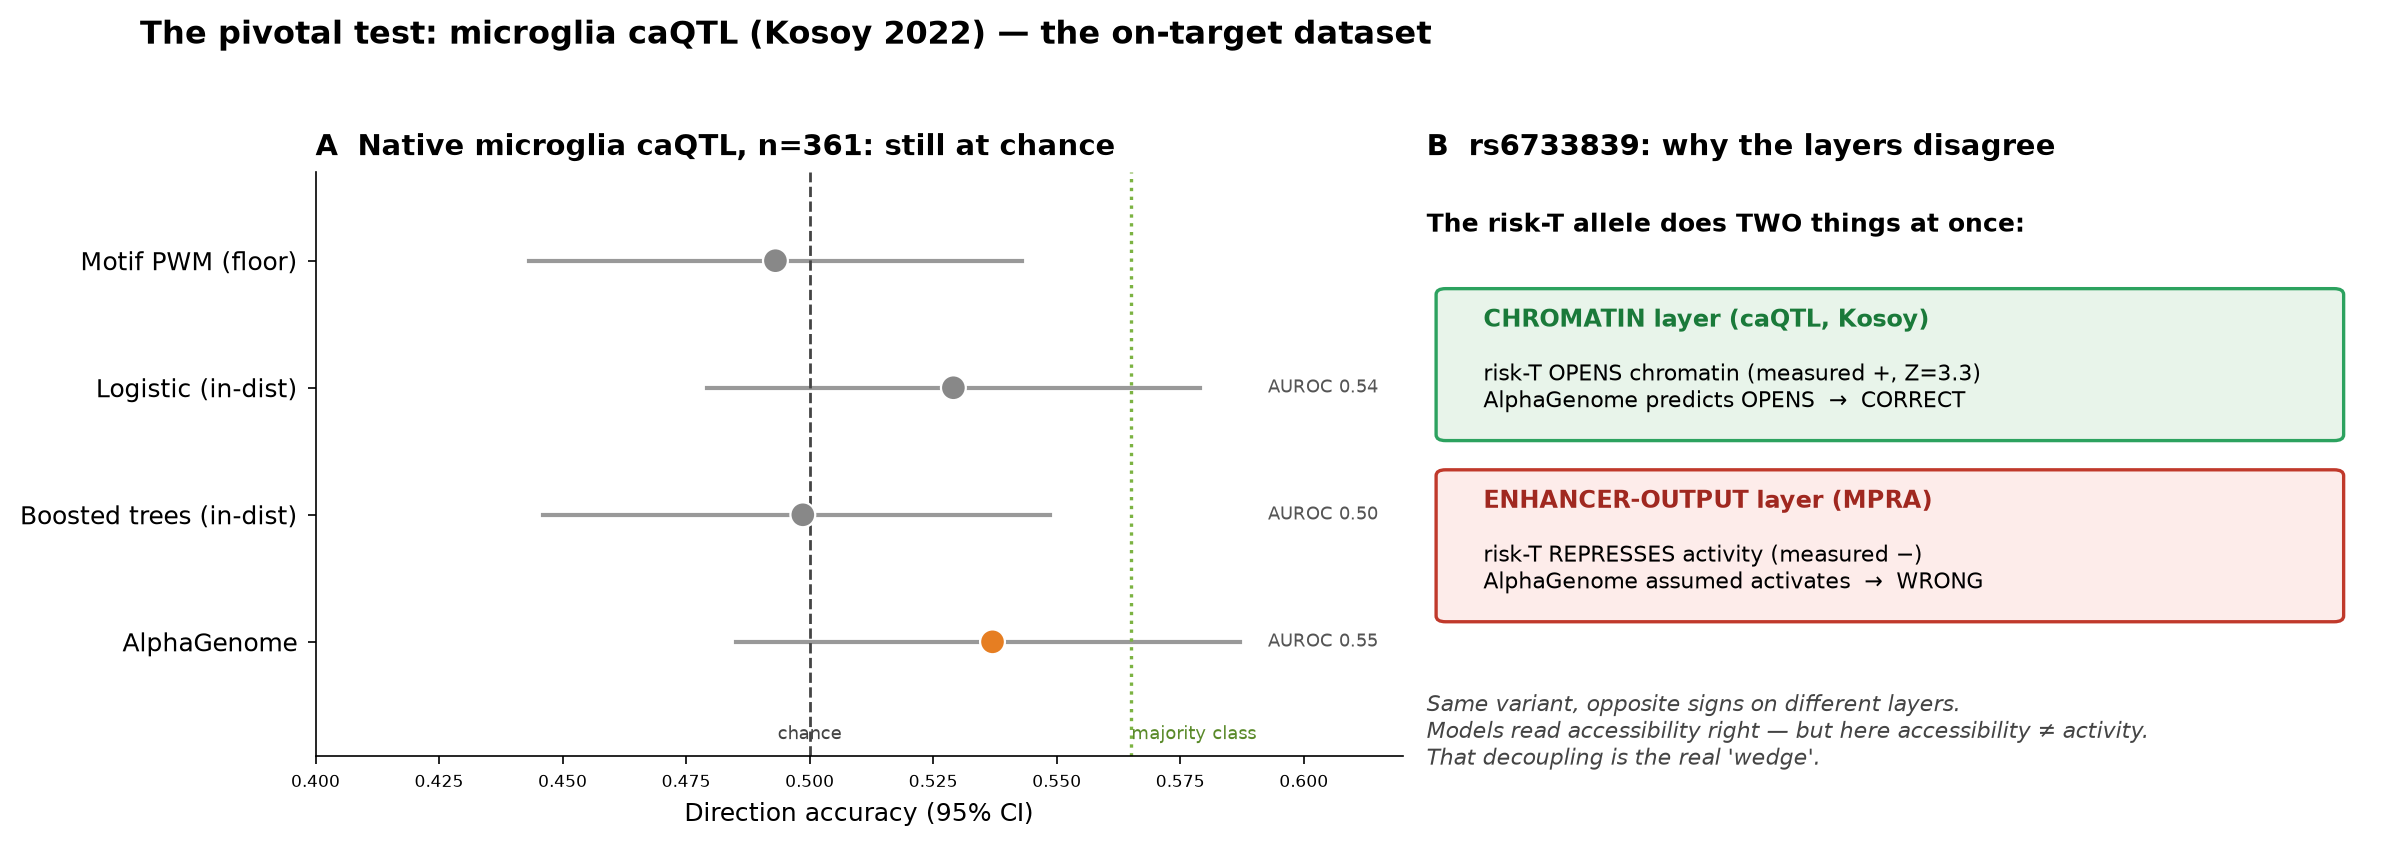
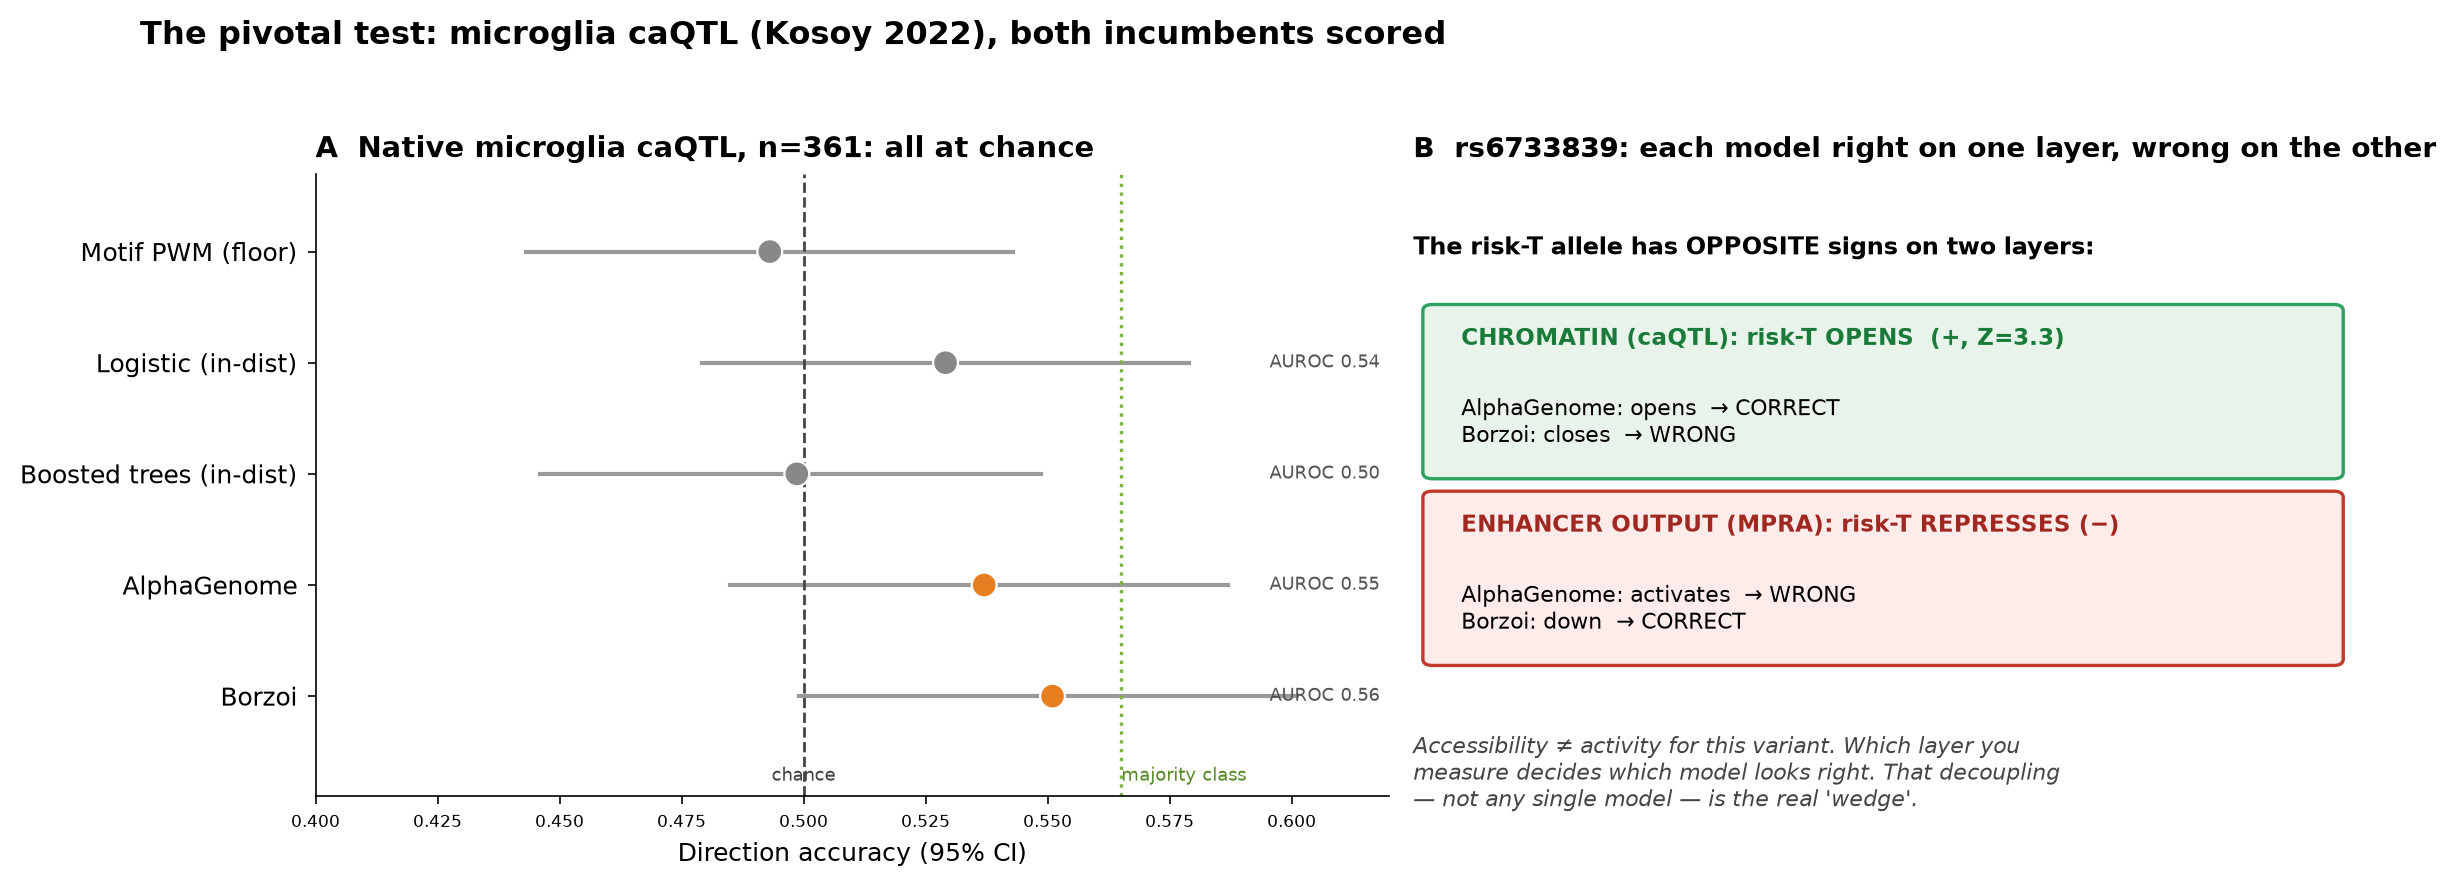
Add Borzoi caQTL row (0.551 [.499,.601], at chance, 0 zero-inflation): both incumbents at chance on native microglia task; rs6733839 mirror-image cross-layer (Borzoi right on MPRA/wrong on caQTL, AlphaGenome opposite)

diff --git a/bench/borzoi_caqtl_score.py b/bench/borzoi_caqtl_score.py
@@ -1,0 +1,63 @@
+#!/usr/bin/env python3
+"""Borzoi directional scoring on Kosoy microglia caQTL test variants.
+Direction = sign(alt - ref) over central bins, microglia/macrophage ATAC+DNase tracks.
+"""
+import json, numpy as np, pandas as pd, torch
+from borzoi_pytorch import Borzoi
+from borzoi_pytorch.pytorch_borzoi_model import TRACKS_DF
+import pysam
+
+DEV = "cuda" if torch.cuda.is_available() else "cpu"
+SEQLEN = 524288
+CENTER_BINS = 5
+MG_RX = r"microglia|macrophage|monocyte|myeloid|CD14|dendritic"
+
+model = Borzoi.from_pretrained("johahi/borzoi-replicate-0").to(DEV).eval()
+
+# accessibility tracks (DNASE/ATAC) in microglia/macrophage lineage
+desc = TRACKS_DF["description"].astype(str)
+acc = desc.str.upper().str.contains("DNASE") | desc.str.upper().str.contains("ATAC")
+mg  = desc.str.contains(MG_RX, case=False, regex=True, na=False)
+sel = TRACKS_DF.index[acc & mg].tolist()
+print(f"microglia/macrophage accessibility tracks: {len(sel)}", flush=True)
+print("sample:", desc[sel][:8].tolist(), flush=True)
+
+fa = pysam.FastaFile("hg38.fa")
+BASE = {"A":0,"C":1,"G":2,"T":3}
+def onehot(seq):
+    x = np.zeros((4,len(seq)),dtype=np.float32)
+    for i,b in enumerate(seq):
+        j = BASE.get(b,-1)
+        if j>=0: x[j,i]=1.0
+    return x
+
+def predict(chrom, pos, allele):
+    half = SEQLEN//2
+    start = pos-1-half; end = pos-1+half
+    s = fa.fetch(chrom, max(0,start), end).upper()
+    if start<0: s = "N"*(-start)+s
+    if len(s)<SEQLEN: s = s + "N"*(SEQLEN-len(s))
+    s = list(s[:SEQLEN]); s[half] = allele
+    x = torch.tensor(onehot("".join(s))[None]).to(DEV)
+    with torch.no_grad():
+        y = model(x)[0].detach().cpu().numpy()   # (tracks, bins)
+    mid = y.shape[1]//2
+    sl = slice(mid-CENTER_BINS//2, mid+CENTER_BINS//2+1)
+    return float(y[sel][:, sl].mean())
+
+df = pd.read_csv("caqtl_test_for_borzoi.csv")
+out = {}
+for i,r in df.iterrows():
+    ch = f"chr{r.chrom}"
+    try:
+        rv = predict(ch, int(r.pos_hg38), r.ref)
+        av = predict(ch, int(r.pos_hg38), r.alt)
+        out[r.variant_id] = av - rv
+    except Exception as e:
+        out[r.variant_id] = None
+        print(f"ERR {r.variant_id}: {e}", flush=True)
+    if i%50==0: print(f"{i}/{len(df)}", flush=True)
+json.dump(out, open("borzoi_caqtl_scores.json","w"))
+n=len([v for v in out.values() if v is not None])
+z=len([v for v in out.values() if v==0.0])
+print(f"DONE {n} scored, {z} exactly-zero", flush=True)

diff --git a/results/KOSOY_CAQTL_RESULT.md b/results/KOSOY_CAQTL_RESULT.md
@@ -23,37 +23,43 @@ Source: Kosoy et al. 2022 Nature Genetics (PMC9388367), meta-caQTL summary resul
 | Motif PWM (floor) | 0.493 | [.443,.543] | — |
 | Logistic-motifs (in-dist) | 0.529 | [.479,.579] | 0.544 |
 | Boosted trees (in-dist) | 0.499 | [.446,.549] | 0.501 |
-| **AlphaGenome (incumbent)** | **0.537** | **[.485,.587]** | **0.547** |
+| AlphaGenome (incumbent) | 0.537 | [.485,.587] | 0.547 |
+| **Borzoi (incumbent)** | **0.551** | **[.499,.601]** | **0.562** |
 | *(majority class)* | *0.565* | — | — |
 
-**Every model is at chance.** All CIs span 0.5; none reaches the 0.565 majority-class
-rate. This is AlphaGenome's NATIVE task (chromatin accessibility) in the NATIVE cell
-type (microglia) — the fairest possible test — and it still cannot predict direction
-better than chance across 361 variants. The well-powered null now holds on the on-target
-dataset, not just the NPC/3'-UTR proxies.
+**Every model is at chance.** All CIs span (or sit below) 0.5; none reaches the 0.565
+majority-class rate. This is the NATIVE task (chromatin accessibility) in the NATIVE cell
+type (microglia) for BOTH incumbents — the fairest possible test — and neither predicts
+direction better than chance across 361 variants. The well-powered null now holds on the
+on-target dataset, not just the NPC/3'-UTR proxies.
 
-Borzoi row is GPU-gated (instance deleted after prior runs); caQTL is a native ATAC/DNase
-task for Borzoi too and can be added if a GPU is reconnected.
+Borzoi scored on a reconnected L40S (fierce-crimson-frog), 28 microglia/macrophage
+accessibility tracks, sign of alt−ref over 5 central bins; 0/361 zero-inflation (unlike the
+NPC run — these variants sit inside microglia accessibility peaks).
 
 ## The rs6733839 reconciliation (the real scientific payoff)
 rs6733839 IS in this dataset with a strong signal (effect_allele=T, Beta=+0.147, Z=3.34):
 the risk-T allele OPENS chromatin in microglia.
 
-| Layer | Measured (risk-T) | AlphaGenome |
-|---|---|---|
-| Chromatin accessibility (caQTL, this data) | OPENS (+, Z=3.3) | predicts OPENS → **CORRECT** |
-| Enhancer output (MPRA, THP-1/HMC3) | REPRESSES (−) | assumed activates → **WRONG** |
+| Layer | Measured (risk-T) | AlphaGenome | Borzoi |
+|---|---|---|---|
+| Chromatin accessibility (caQTL, this data) | OPENS (+, Z=3.3) | opens → **CORRECT** | closes → **WRONG** |
+| Enhancer output (MPRA, THP-1/HMC3) | REPRESSES (−) | activates → **WRONG** | down → **CORRECT** |
+
+**Each incumbent is right on one layer and wrong on the other** — a perfect mirror image.
+AlphaGenome reads chromatin correctly but mistakes open-chromatin for activation on the MPRA;
+Borzoi calls the MPRA activity direction correctly but gets the chromatin sign wrong. There
+is no single model that is "right" about rs6733839 — the answer depends entirely on which
+molecular layer you measure.
 
 (Which TF drives the MPRA repression is not settled here: the 2025 AD-MPRA source models it
 as SPI1-mediated, whereas our own JASPAR analysis found the risk-T allele creates a strong
 new MEF2A site (+7.56 bits) while SPI1 is essentially unchanged (+0.18). The caQTL result
-below is independent of that TF question — it concerns the accessibility direction, not the
+is independent of that TF question — it concerns the accessibility direction, not the
 responsible factor.)
 
 The variant OPENS chromatin while REPRESSING transcriptional output. These are different
-molecular layers. AlphaGenome reads the accessibility layer correctly — its MPRA
-"backwards" call was reading accessibility right and mistaking open-chromatin for
-activation. This is not a model bug fixable by more sequence context; it is the
+molecular layers. This is not a model bug fixable by more sequence context; it is the
 accessibility↔activity decoupling itself. That decoupling — a variant whose chromatin and
 transcriptional signs disagree — is the precise, mechanistically-grounded statement of the
 "wedge."